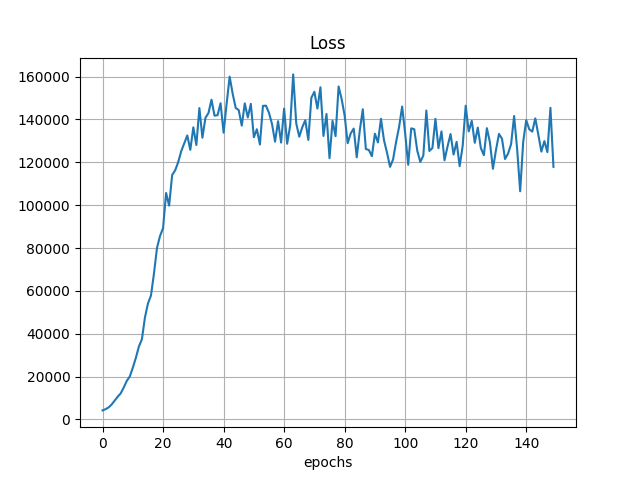
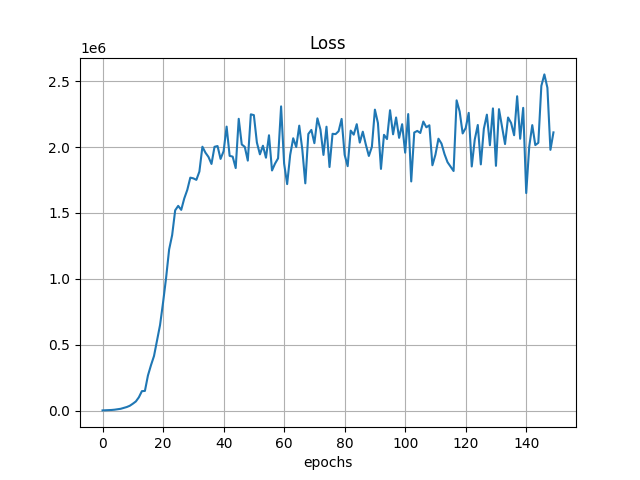
StandardScalar applied. BatchNormalization done.

diff --git a/dqn.py b/dqn.py
@@ -3,7 +3,7 @@ import numpy as np
 from collections import deque
 import matplotlib.pyplot as plt
 
-from sklearn.model_selection import train_test_split
+from sklearn.preprocessing import StandardScaler
 
 
 from keras.models import Sequential
@@ -93,12 +93,14 @@ class DQNAgent:
         The Q-learning function is a non linear function of type: Q:S x A -> R."""
 
         model = Sequential()
+
         model.add(Dense(14, input_dim=self.state_size, activation='relu'))
         model.add(BatchNormalization())
+        #model.add(Dropout(rate=0.2))
         model.add(Dense(24, activation='relu'))
         model.add(BatchNormalization())
+        #model.add(Dropout(rate=0.2))
         model.add(Dense(10, activation='relu'))
-        #model.add(Dropout(rate=0.3))
         model.add(Dense(self.action_size, activation='linear'))  # Regression problem.
         model.compile(loss=self._huber_loss,
                       optimizer=Adam(lr=self.learning_rate))
@@ -145,7 +147,7 @@ class DQNAgent:
             history = self.model.fit(state, target, epochs=1, verbose=0)
             loss.append(history.history['loss'])
         self.data.measures['loss'].append(np.linalg.norm(loss))
-        print(f"Loss: {np.linalg.norm(self.data.measures['loss'])}")
+        print(f"Loss: {self.data.measures['loss'][-1]}")
 
         if self.epsilon >= self.epsilon_min:
             self.epsilon *= self.epsilon_decay
@@ -202,7 +204,7 @@ class DQNAgent:
         plt.plot(epochs_loss, self.data.measures['loss'])
         plt.grid()
         plt.title('Loss')
-        plt.xlabel('epochs')
+        plt.xlabel('training epochs')
         plt.savefig(f'plots/Loss_{episod+len(self.data.measures["loss"])}.png')
         plt.close()
 
@@ -241,6 +243,9 @@ if __name__ == "__main__":
 
     agent = DQNAgent(state_size, action_size)
     train, test = agent.data.train_test_split(dataset)
+
+    scalar = StandardScaler()
+    train = scalar.fit_transform(train)
     print(f"train shape: {train.shape}")
     done = False
     batch_size = 32
